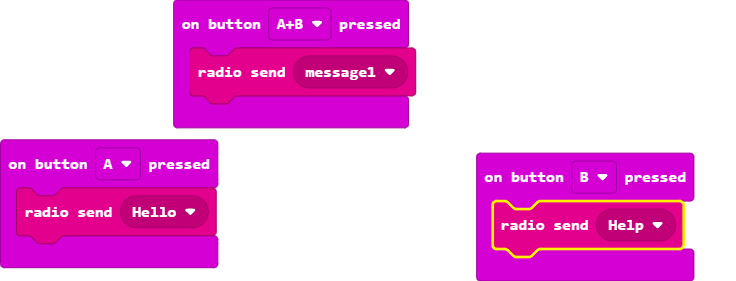
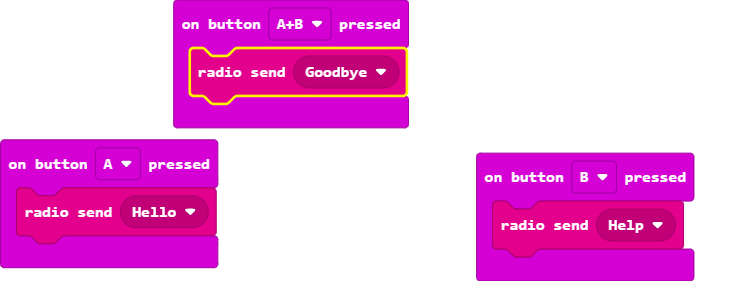
Update main.blocks, main.ts

Changed region(s): [[0.25, 0.1423, 0.5938, 0.3986], [0.6562, 0.6833, 0.9375, 0.9395]]

diff --git a/main.ts b/main.ts
@@ -1,13 +1,14 @@
 enum RadioMessage {
     message1 = 49434,
     Hello = 49337,
-    Help = 43444
+    Help = 43444,
+    Goodbye = 16885
 }
 input.onButtonPressed(Button.A, function () {
     radio.sendMessage(RadioMessage.Hello)
 })
 input.onButtonPressed(Button.AB, function () {
-    radio.sendMessage(RadioMessage.message1)
+    radio.sendMessage(RadioMessage.Goodbye)
 })
 input.onButtonPressed(Button.B, function () {
     radio.sendMessage(RadioMessage.Help)
